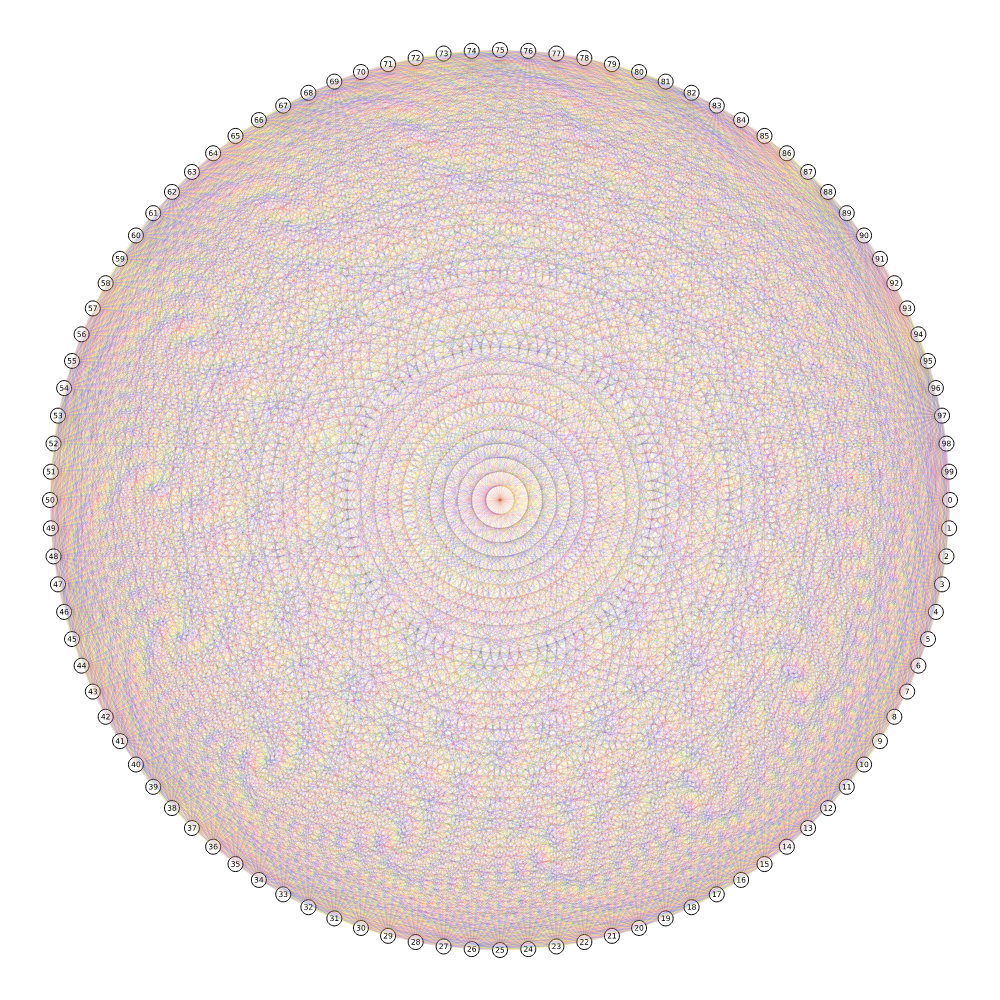
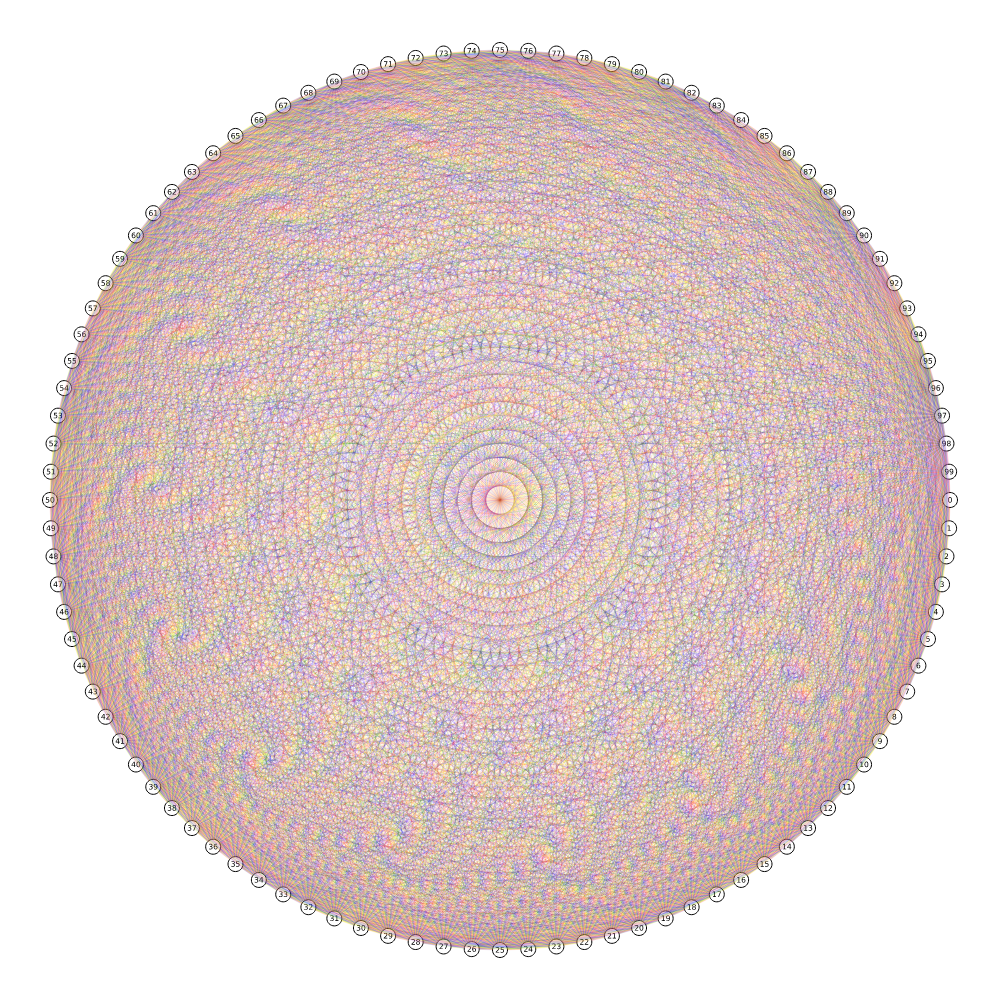
docs: Make complete_graph_with_circular_layout even fancier.
Resolves #21

Changed region(s): [[0.031, 0.031, 0.961, 0.961]]

diff --git a/examples/complete_graph_with_circular_layout.rs b/examples/complete_graph_with_circular_layout.rs
@@ -30,7 +30,7 @@ fn main() {
         .width(1000.0)
         .height(1000.0)
         .node_radius(7.5)
-        .stroke_width(0.1)
+        .stroke_width(0.15)
         .font_size(7.5)
         .layout(Layout::Circular)
         .edge_coloring_fn(edge_coloring_fn)
